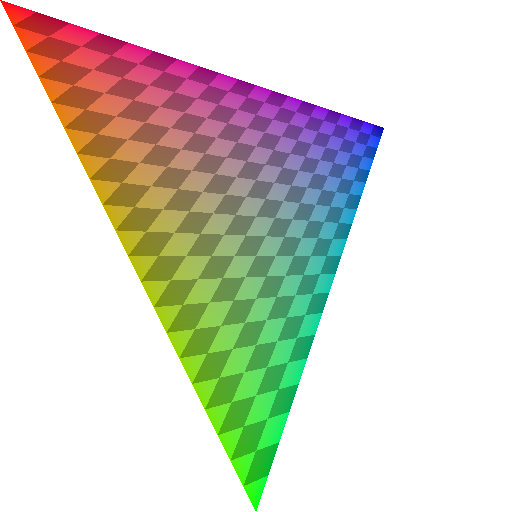
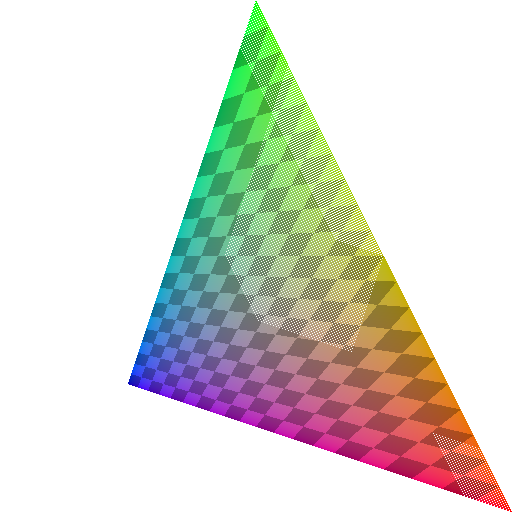
cool floating point mild error example (see main.cpp line 69)

diff --git a/main.cpp b/main.cpp
@@ -5,38 +5,14 @@
 #include "Vertex.h"
 #include "Box.h"
 #include "Utility.h"
+#include "Shader.h"
+#include <iostream>
 
 struct RenderBuffer { 
 	int w, h, ys; 
 	void* data; 
 };
 
-Vertex::Clip vertex_shader(Vertex::In in) {
-	Vertex::Clip out{};
-
-	out.SV_Position = Vec4(in.position.x, in.position.y, -2 * in.position.z - 2 * in.position.w, -in.position.z);
-    out.texcoord = in.texcoord;
-    out.color = in.color;
-
-	return out;
-}
-
-Vec4 fragment_shader(Vertex::Interpolated in) {
-    Vec4 out = in.color;
-	
-	Vec2 wrapped = Vec2(in.texcoord.x, in.texcoord.y) - Vec2(std::floor(in.texcoord.x), std::floor(in.texcoord.y));
-    bool brighter = (wrapped.x < 0.5) != (wrapped.y < 0.5);
-    
-	if(!brighter) {
-		out.x *= 0.5f;
-		out.y *= 0.5f;
-		out.z *= 0.5f;
-	}
-
-	return out;
-}
-
-// render output unit/render operations pipeline
 void render(RenderBuffer& buf, int x, int y, Vec4 color) {
     uint8_t* p = reinterpret_cast<uint8_t*>(buf.data) + buf.ys * (buf.h - y - 1) + 4 * x;
     p[0] = SrgbTransform::linearToSrgb8bit(color.x);
@@ -45,38 +21,44 @@ void render(RenderBuffer& buf, int x, int y, Vec4 color) {
     p[3] = std::lround(color.w * 255);
 }
 
-void draw_triangle(RenderBuffer& color_attachment, Box2 viewport, const Vertex::In* in_verts) {
+void draw_triangle(RenderBuffer& color_attachment, Box2 window, const Vertex::In* in_verts) {
 	Vertex::Clip clip_verts[3]{};
 	Vertex::NDC ndc_verts[3]{};
 	Vertex::Window window_verts[3]{};
-    Box2 aabb{ Vec2{}, Vec2{} };
 
     for(int i = 0; i < 3; ++i) {
-        clip_verts[i] = vertex_shader(in_verts[i]);
+        clip_verts[i] = Shader::vertex(in_verts[i]);
 
 		ndc_verts[i].position = perspective_divide(clip_verts[i].SV_Position);
 		ndc_verts[i].texcoord = clip_verts[i].texcoord;
 		ndc_verts[i].color = clip_verts[i].color;
 
 		window_verts[i].position = 
-			Vec4(mix(viewport.top_left.x, viewport.bottom_right.x, ndc_to_scale(ndc_verts[i].position.x)), 
-			     mix(viewport.top_left.y, viewport.bottom_right.y, ndc_to_scale(ndc_verts[i].position.y)),
+			Vec4(mix(window.top_left.x /* 0.0f */, window.bottom_right.x /* 512.0f */, ndc_to_scale(ndc_verts[i].position.x)), 
+			     mix(window.top_left.y /* 0.0f */, window.bottom_right.y /* 512.0f */, ndc_to_scale(ndc_verts[i].position.y)),
 				 ndc_verts[i].position.z,
 				 ndc_verts[i].position.w);
 		window_verts[i].texcoord = clip_verts[i].texcoord;
 		window_verts[i].color = clip_verts[i].color;
-
-        aabb.join(Vec2(window_verts[i].position));
     }
-
-    float triangle_area = area(Vec2(window_verts[0].position), Vec2(window_verts[1].position), Vec2(window_verts[2].position));
+	
+	Box2 aabb(window_verts);
     iBox2 iaabb(aabb);
+    float triangle_area = area(Vec2(window_verts[0].position), Vec2(window_verts[1].position), Vec2(window_verts[2].position));
 
-    for(int y = iaabb.top_left.y; y >= iaabb.bottom_right.y; --y) {
-		for(int x = iaabb.top_left.x; x <= iaabb.bottom_right.x; ++x) {
-			Vec4 frag_position(x + 0.5f, y + 0.5f, 0.0f, 0.0f);
+	int xxx = 0;
+
+    for(int y = iaabb.top_left.y; y <= iaabb.bottom_right.y; ++y) {
+		for(int x = iaabb.top_left.x; x <= iaabb.bottom_right.x; ++x, ++xxx) {
+			Vec4 frag_position{ x + 0.5f, y + 0.5f };
 
 			// fragment barycentric coordinates in window coordinates
+			if(xxx < 1) {
+				std::cout << area(Vec2(frag_position), Vec2(window_verts[1].position), Vec2(window_verts[2].position)) << '\n';
+				std::cout << area(Vec2(window_verts[0].position), Vec2(frag_position), Vec2(window_verts[2].position)) << '\n';
+				std::cout << area(Vec2(window_verts[0].position), Vec2(window_verts[1].position), Vec2(frag_position)) << '\n';
+			}
+
 			Vec3 barycentric(
 				area(Vec2(frag_position), Vec2(window_verts[1].position), Vec2(window_verts[2].position)) / triangle_area,
 				area(Vec2(window_verts[0].position), Vec2(frag_position), Vec2(window_verts[2].position)) / triangle_area,
@@ -84,7 +66,7 @@ void draw_triangle(RenderBuffer& color_attachment, Box2 viewport, const Vertex::
 			);
 
 			// discard fragment outside the triangle. this doesn't handle edges correctly.
-			if(barycentric.x < 0 || barycentric.y < 0 || barycentric.z < 0) continue;
+			if((barycentric.x + barycentric.y + barycentric.z) != 1.0f) continue;
 
 			// interpolate inverse depth linearly
 			frag_position.z = interpolate(window_verts, &Vec4::z, barycentric);
@@ -103,7 +85,7 @@ void draw_triangle(RenderBuffer& color_attachment, Box2 viewport, const Vertex::
 				interpolate(window_verts, &Vertex::Window::color, perspective),
 			};
 
-			render(color_attachment, x, y, fragment_shader(interpolated));
+			render(color_attachment, x, y, Shader::fragment(interpolated));
 		}
 	}
 }
@@ -112,15 +94,14 @@ int main() {
 	constexpr int w = 512, h = 512, ys = 512 * 4;
     RenderBuffer buffer(w, h, ys, calloc(ys, h));
 
-    // position, texcoord, color
     constexpr Vertex::In vertex_buffer[] = {
-        { { 1, -1, -1, 1 }, { 10, 0, 0, 1 }, { 1, 0, 0, 1 } },
-        { { 0, 1, -1, 1 }, { 0, 10, 0, 1 }, { 0, 1, 0, 1 } },
-        { { -1, -1, -2, 1 }, { 0, 0, 0, 1 }, { 0, 0, 1, 1 } },
+        { { 1.0f, -1.0f, 0.0f, 1.0f }, { 10.0f, 0.0f, 0.0f, 1.0f }, { 1.0f, 0.0f, 0.0f, 1.0f } },
+        { { 0.0f, 1.0f, 0.0f, 1.0f }, { 0.0f, 10.0f, 0.0f, 1.0f }, { 0.0f, 1.0f, 0.0f, 1.0f } },
+        { { -1.0f, -1.0f, 2.0f, 2.0f }, { 0.0f, 0.0f, 0.0f, 1.0f }, { 0.0f, 0.0f, 1.0f, 1.0f } },
     };
 
-    Box2 viewport(Vec2(0, 0), Vec2(buffer.w, buffer.h));
-    draw_triangle(buffer, viewport, vertex_buffer);
+	Box2 window{ Vec2{0.0f, 0.0f}, Vec2{ static_cast<float>(buffer.w), static_cast<float>(buffer.h) } };
+    draw_triangle(buffer, window, vertex_buffer);
 
     stbi_write_png("render/out.png", buffer.w, buffer.h, 4, buffer.data, buffer.ys);
 

diff --git a/Box.h b/Box.h
@@ -1,23 +1,41 @@
 #pragma once
 
 #include <cmath>
+#include <limits>
 #include "Vector.h"
+#include "Vertex.h"
 
 struct Box2 {
 	Vec2 top_left, bottom_right;
 
-	void join(Vec2 p) {
-		if(p.y < bottom_right.y) {
-			bottom_right.y = p.y;
-		} else if(p.y > top_left.y) {
-			top_left.y = p.y;
+	Box2(Vec2 top_left, Vec2 bottom_right) : top_left(top_left), bottom_right(bottom_right) {}
+	explicit Box2(const Vertex::Window* triangle) {
+		float max_x = std::numeric_limits<float>::min();
+		float max_y = std::numeric_limits<float>::min();
+
+		float min_x = std::numeric_limits<float>::max();
+		float min_y = std::numeric_limits<float>::max();
+
+		for(int i = 0; i < 3; ++i) {
+			if(triangle[i].position.x > max_x) {
+				max_x = triangle[i].position.x;
+			}
+			if(triangle[i].position.x < min_x) {
+				min_x = triangle[i].position.x;
+			}
+			if(triangle[i].position.y > max_y) {
+				max_y = triangle[i].position.y;
+			}
+			if(triangle[i].position.y < min_y) {
+				min_y = triangle[i].position.y;
+			}
 		}
 
-		if(p.x < top_left.x) {
-			top_left.x = p.x;
-		} else if(p.x > bottom_right.x) {
-			bottom_right.x = p.x;
-		}
+		top_left.x = min_x;
+		top_left.y = min_y;
+
+		bottom_right.x = max_x;
+		bottom_right.y = max_y;
 	}
 };
 

diff --git a/Utility.cpp b/Utility.cpp
@@ -1,6 +1,6 @@
 #include <cassert>
-#include "Vector.h"
-#include "Vertex.h"
+#include <cmath>
+#include "Utility.h"
 
 float interpolate(Vertex::Window* p_window_verts, float Vec4::* mp_vec4, Vec3 vec3) {
 	return vec3.x * p_window_verts[0].position.*mp_vec4 + vec3.y * p_window_verts[1].position.*mp_vec4 + vec3.z * p_window_verts[2].position.*mp_vec4;
@@ -13,7 +13,7 @@ Vec4 interpolate(Vertex::Window* p_window_verts, Vec4 Vertex::Window::* mp_windo
 float mix(float a, float b, float scale) {
 	assert(scale >= 0.0f && scale <= 1.0f);
 
-	return a * scale + b * (1.0f - scale);
+	return a * (1.0f - scale) + b * scale;
 }
 
 float clamp(float f, float min, float max) {
@@ -35,8 +35,14 @@ float cross(Vec2 v1, Vec2 v2) {
 }
 
 float area(Vec2 p0, Vec2 p1, Vec2 p2) { 
-	return cross(p1 - p0, p2 - p0); 
+	return std::abs(cross(p1 - p0, p2 - p0) / 2.0f); 
 };
+
+bool equal(float f1, float f2) {
+	float delta = std::abs(f1 - f2);
+
+	return delta < 0.001f;
+}
 
 float ndc_to_scale(float ndc) {
 	return 0.5f * (ndc + 1.0f);

diff --git a/Shader.cpp b/Shader.cpp
@@ -1,0 +1,27 @@
+#include <cmath>
+#include "Vertex.h"
+
+namespace Shader {
+	Vertex::Clip vertex(Vertex::In in) {
+		return {
+			in.position,
+			in.texcoord,
+			in.color
+		};
+	}
+
+	Vec4 fragment(Vertex::Interpolated in) {
+		Vec4 out = in.color;
+	
+		Vec2 wrapped = Vec2(in.texcoord.x, in.texcoord.y) - Vec2(std::floor(in.texcoord.x), std::floor(in.texcoord.y));
+		bool brighter = (wrapped.x < 0.5) != (wrapped.y < 0.5);
+    
+		if(!brighter) {
+			out.x *= 0.5f;
+			out.y *= 0.5f;
+			out.z *= 0.5f;
+		}
+
+		return out;
+	}
+}

diff --git a/Shader.h b/Shader.h
@@ -1,0 +1,9 @@
+#pragma once
+
+#include "Vertex.h"
+#include "Vector.h"
+
+namespace Shader {
+	Vertex::Clip vertex(Vertex::In in);
+	Vec4 fragment(Vertex::Interpolated in);
+}

diff --git a/Utility.h b/Utility.h
@@ -17,4 +17,6 @@ float cross(Vec2 v1, Vec2 v2);
 
 float area(Vec2 p0, Vec2 p1, Vec2 p2);
 
+bool equal(float f1, float f2);
+
 float ndc_to_scale(float ndc);

diff --git a/Vertex.h b/Vertex.h
@@ -1,6 +1,6 @@
 #pragma once
 
-#include "vector.h"
+#include "Vector.h"
 
 namespace Vertex {
 	struct In { 
